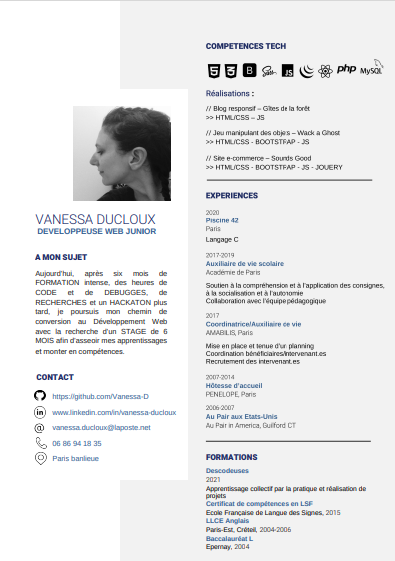
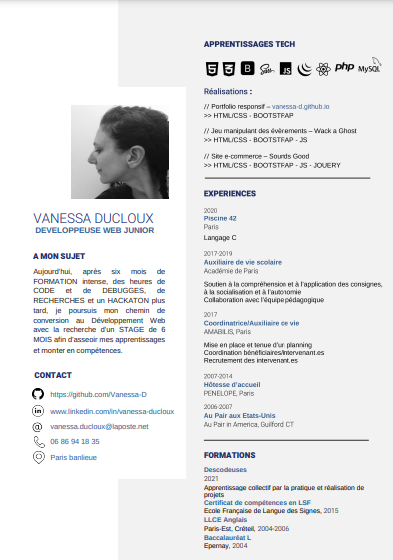
MAJ cv pdf + liens

diff --git a/hier.html b/hier.html
@@ -42,7 +42,7 @@
                             Hier, j'ai acquis de mes expériences passées le <strong class="skill">travail en autonomie</strong>, le <strong class="skill">travail d'équipe</strong> aussi, et développé des <strong class="skill">capacités à rebondir</strong> face aux obstacles.
                         </lead>
                         <div class="download text-center">
-                            <a class="text-decoration-none" href="images/capture_cv.png" target="_blank" download>
+                            <a class="text-decoration-none" href="files/CVleBon.pdf" target="_blank" download>
                                 <p class="text-uppercase mt-4">TELECHARGER MON CV</p>
                                 <img class="mb-2 border border-dark rounded" target="_blank" src="images/capture_cv.png" alt="cv à télécharger">
                             </a>

diff --git a/index.html b/index.html
@@ -10,6 +10,8 @@
     <script src="https://kit.fontawesome.com/51b1869a1d.js" crossorigin="anonymous"></script>
     <link rel="stylesheet" href="https://cdn.jsdelivr.net/npm/bootstrap@4.6.0/dist/css/bootstrap.min.css" integrity="sha384-B0vP5xmATw1+K9KRQjQERJvTumQW0nPEzvF6L/Z6nronJ3oUOFUFpCjEUQouq2+l" crossorigin="anonymous">
     <link rel="stylesheet" href="style.css">
+    <!-- Favicon -->
+    <!-- <link rel="icon" href="#" /> -->
     <title>Cv Développeuse web</title>
 </head>
 <body>
